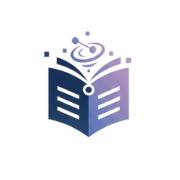
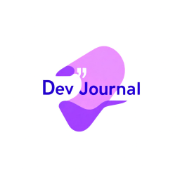
feat: initialize Next.js application with profile management, blog post pages, and core UI components.

Changed region(s): [[0.2222, 0.1944, 0.7778, 0.7778], [0.2222, 0.2778, 0.2778, 0.3333], [0.4722, 0.1667, 0.5, 0.2222]]

diff --git a/src/app/dashboard/_components/DashboardSidebar.tsx b/src/app/dashboard/_components/DashboardSidebar.tsx
@@ -90,7 +90,7 @@ export function DashboardSidebar({ className }: SidebarProps) {
                         <div className="relative flex items-center justify-center shrink-0">
                             <div className="relative">
                                 <Image
-                                    src="/images/logoSm.png"
+                                    src="/images/logo.png"
                                     alt="Logo"
                                     width={50}
                                     height={50}
@@ -100,7 +100,7 @@ export function DashboardSidebar({ className }: SidebarProps) {
                         </div>
                         {!collapsed && (
                             <h1 className="ml-4 text-xl font-bold bg-linear-to-r from-white to-gray-400 bg-clip-text text-transparent truncate">
-                                BlogSpace
+                                DevJournal
                             </h1>
                         )}
                     </Link>
@@ -174,7 +174,7 @@ export const MobileSidebar = () => {
                                 />
                             </div>
                             <h1 className="text-xl font-bold bg-linear-to-r from-white to-gray-400 bg-clip-text text-transparent">
-                                BlogSpace
+                                DevJournal
                             </h1>
                         </Link>
 

diff --git a/src/app/layout.tsx b/src/app/layout.tsx
@@ -17,14 +17,14 @@ const geistMono = Geist_Mono({
 
 export const metadata: Metadata = {
   title: {
-    default: "BlogSpace - Your Source for Tech & Lifestyle",
-    template: "%s | BlogSpace",
+    default: "DevJournal - Your Source for Tech & Lifestyle",
+    template: "%s | DevJournal",
   },
-  description: "Discover the latest insights in technology, lifestyle, and more on BlogSpace. Join our community of readers today.",
+  description: "Discover the latest insights in technology, lifestyle, and more on DevJournal. Join our community of readers today.",
   keywords: ["blog", "technology", "lifestyle", "nextjs", "web development", "programming"],
   openGraph: {
-    title: "BlogSpace",
-    description: "Discover the latest insights in technology, lifestyle, and more on BlogSpace.",
+    title: "DevJournal",
+    description: "Discover the latest insights in technology, lifestyle, and more on DevJournal.",
     type: "website",
   },
   icons: {
@@ -36,7 +36,7 @@ export default function RootLayout({ children }: Readonly<{ children: React.Reac
   return (
     <html lang="en" suppressHydrationWarning>
       <head>
-        <meta name="apple-mobile-web-app-title" content="BlogSpa" />
+        <meta name="apple-mobile-web-app-title" content="DevJournal" />
       </head>
       <body className={`${geistSans.variable} ${geistMono.variable} antialiased`}>
         <ThemeProvider

diff --git a/src/components/Navbar/_components/MobileMenu.tsx b/src/components/Navbar/_components/MobileMenu.tsx
@@ -27,17 +27,17 @@ export function MobileMenu({ items, session, isPending }: MobileMenuProps) {
                     <span className="sr-only">Toggle menu</span>
                 </Button>
             </SheetTrigger>
-            <SheetContent side="right" className="w-75 flex flex-col p-0">
+            <SheetContent side="right" className="w-200 flex flex-col p-0">
                 <SheetHeader className="px-6 py-6 border-b border-border/40">
                     <SheetTitle className="text-left flex items-center">
                         <Image
-                            src="/images/logoSm.png"
-                            alt="BlogSpace"
-                            width={32}
-                            height={32}
+                            src="/images/logo.png"
+                            alt="DevJournal"
+                            width={50}
+                            height={50}
                             className="object-contain"
                         />
-                        <span className="ml-3 text-lg font-bold tracking-tight">BlogSpace</span>
+                        <span className="ml-3 text-lg font-bold tracking-tight">DevJournal</span>
                     </SheetTitle>
                     <SheetDescription className="sr-only">
                         Navigation menu

diff --git a/src/components/Footer.tsx b/src/components/Footer.tsx
@@ -13,7 +13,7 @@ export function Footer() {
                             <div className="relative">
                                 <Image
                                     src="/images/logo.png"
-                                    alt="BlogSpace Logo"
+                                    alt="DevJournal Logo"
                                     width={130}
                                     height={120}
                                     className="object-contain h-auto"
@@ -61,7 +61,7 @@ export function Footer() {
                     </div>
                 </div>
                 <div className="mt-8 border-t pt-8 text-center text-sm text-muted-foreground">
-                    <p>&copy; {new Date().getFullYear()} BlogSpace. All rights reserved.</p>
+                    <p>&copy; {new Date().getFullYear()} DevJournal. All rights reserved.</p>
                 </div>
             </div>
         </footer>

diff --git a/src/app/profile/page.tsx b/src/app/profile/page.tsx
@@ -87,7 +87,7 @@ export default async function ProfilePage() {
                         <div className="p-4 rounded-xl bg-slate-50 dark:bg-white/2 border border-slate-200 dark:border-white/5 space-y-2.5 relative overflow-hidden group">
                             <p className="text-[10px] font-black text-slate-400 uppercase tracking-[0.2em] group-hover:text-primary transition-colors">Platform Note</p>
                             <p className="text-xs leading-relaxed text-slate-500 dark:text-slate-400 font-medium">
-                                Your profile data captures your identity across the BlogSpace community.
+                                Your profile data captures your identity across the DevJournal community.
                             </p>
                         </div>
                     </div>

diff --git a/src/app/profile/_components/AuthorRequestForm.tsx b/src/app/profile/_components/AuthorRequestForm.tsx
@@ -124,7 +124,7 @@ export function AuthorRequestForm({ userStatus }: AuthorRequestFormProps) {
                             id="reason"
                             value={reason}
                             onChange={(e) => setReason(e.target.value)}
-                            placeholder="What kind of value will you bring to the BlogSpace community?"
+                            placeholder="What kind of value will you bring to the DevJournal community?"
                             className="min-h-35 p-6 bg-white dark:bg-slate-900/40 border-slate-200 dark:border-white/5 rounded-2xl focus:ring-2 focus:ring-primary/20 focus:border-primary transition-all font-medium text-slate-900 dark:text-white placeholder:font-light"
                             required
                         />

diff --git a/src/app/contact/page.tsx b/src/app/contact/page.tsx
@@ -47,8 +47,8 @@ export default function ContactPage() {
                                         </div>
                                         <div>
                                             <h3 className="font-bold text-lg">Email us</h3>
-                                            <p className="text-muted-foreground">hello@blogspace.com</p>
-                                            <p className="text-muted-foreground">support@blogspace.com</p>
+                                            <p className="text-muted-foreground">hello@devjournal.com</p>
+                                            <p className="text-muted-foreground">support@devjournal.com</p>
                                         </div>
                                     </div>
 

diff --git a/src/app/profile/_components/ProfileForm.tsx b/src/app/profile/_components/ProfileForm.tsx
@@ -107,7 +107,7 @@ export function ProfileForm({ user }: ProfileFormProps) {
                                 required
                             />
                         </div>
-                        <p className="text-[10px] text-slate-400 font-medium px-1">Your public name displayed to the BlogSpace community.</p>
+                        <p className="text-[10px] text-slate-400 font-medium px-1">Your public name displayed to the DevJournal community.</p>
                     </div>
 
                     <div className="space-y-4">

diff --git a/src/components/Navbar/Navbar.tsx b/src/components/Navbar/Navbar.tsx
@@ -42,7 +42,7 @@ export function Navbar() {
                         <div className="relative">
                             <Image
                                 src="/images/logo.png"
-                                alt="BlogSpace Logo"
+                                alt="DevJournal Logo"
                                 width={130}
                                 height={120}
                                 className="object-contain h-auto"

diff --git a/src/app/blog/[slug]/page.tsx b/src/app/blog/[slug]/page.tsx
@@ -36,7 +36,7 @@ export async function generateMetadata({ params }: { params: Promise<{ slug: str
             title: data.title,
             description: String(data.content).substring(0, 160).replace(/<[^>]*>?/gm, ''),
             url: url,
-            siteName: "BlogSpace",
+            siteName: "DevJournal",
             images: [
                 {
                     url: data.image || "/images/logo.png",
